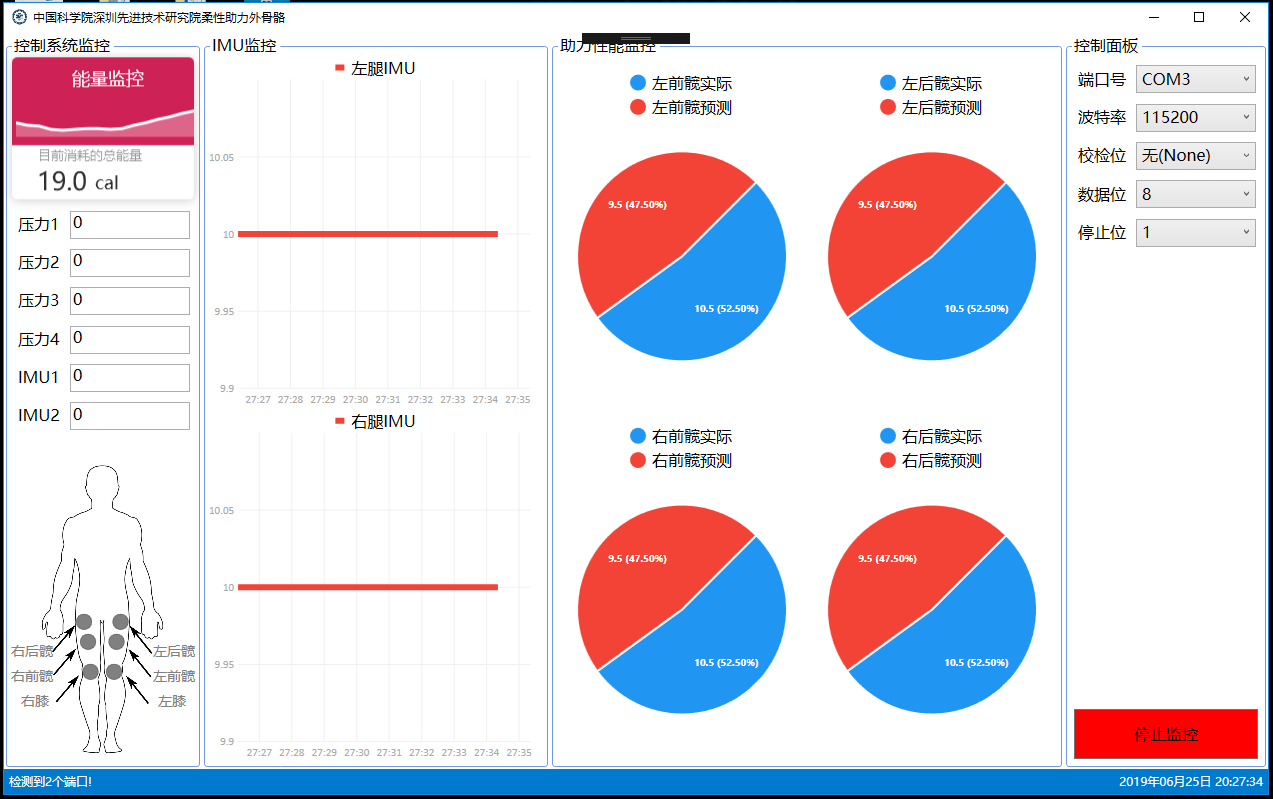
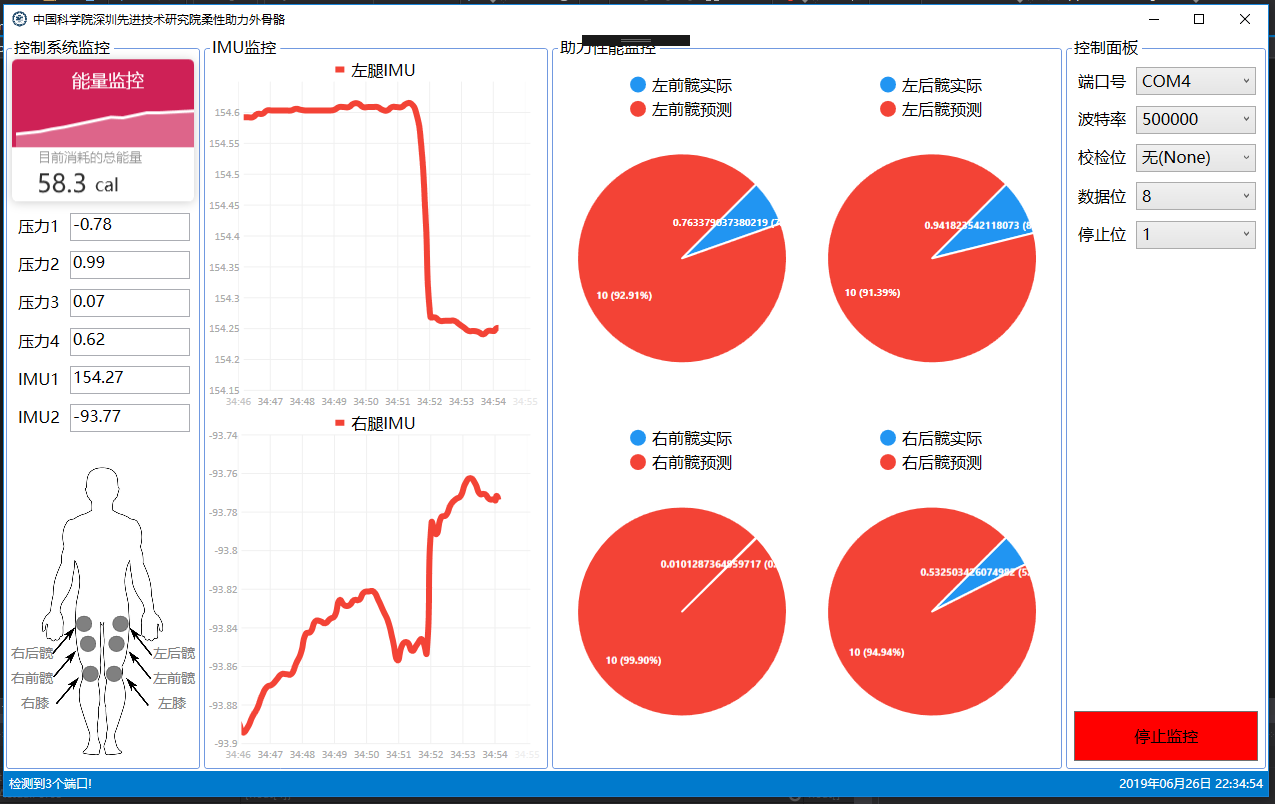
接受下位机数据测试通过
那就还差指示灯逻辑以及能量监控算法了

diff --git a/FlexibleExoskeleton/FlexibleExoskeleton/MainWindow.xaml b/FlexibleExoskeleton/FlexibleExoskeleton/MainWindow.xaml
@@ -61,6 +61,8 @@
                                         <ComboBoxItem>19200</ComboBoxItem>
                                         <ComboBoxItem>38400</ComboBoxItem>
                                         <ComboBoxItem IsSelected="True">115200</ComboBoxItem>
+                                        <ComboBoxItem>256000</ComboBoxItem>
+                                        <ComboBoxItem>500000</ComboBoxItem>
                                     </ComboBox>
                                 </Grid>
                                 <!--波特率下拉选项框结束-->

diff --git a/FlexibleExoskeleton/FlexibleExoskeleton/MainWindow.xaml.cs b/FlexibleExoskeleton/FlexibleExoskeleton/MainWindow.xaml.cs
@@ -102,14 +102,14 @@ namespace FlexibleExoskeleton
         public void ShowDataTimer(object sender, EventArgs e)//电机状态，压力，倾角，角度传感器状态的文本输出
         {
             //4个压力传感器的文本框输出
-            //Pressure1_Textbox.Text = ports.pressures[0].ToString("F");
-            //Pressure2_Textbox.Text = ports.pressures[1].ToString("F");
-            //Pressure3_Textbox.Text = ports.pressures[2].ToString("F");
-            //Pressure4_Textbox.Text = ports.pressures[3].ToString("F");
+            Pressure1_Textbox.Text = ports.ActualForce[0].ToString("F");
+            Pressure2_Textbox.Text = ports.ActualForce[1].ToString("F");
+            Pressure3_Textbox.Text = ports.ActualForce[2].ToString("F");
+            Pressure4_Textbox.Text = ports.ActualForce[3].ToString("F");
 
             //2个IMU的文本框输出
-            //IMU1_Textbox.Text = ports.imus[0].ToString("F");
-            //IMU2_Textbox.Text = ports.imus[1].ToString("F");
+            IMU1_Textbox.Text = ports.imus[0].ToString("F");
+            IMU2_Textbox.Text = ports.imus[1].ToString("F");
 
             // LED显示
             if (ports.led == 1) // 对左膝助力

diff --git a/FlexibleExoskeleton/FlexibleExoskeleton/Ports.cs b/FlexibleExoskeleton/FlexibleExoskeleton/Ports.cs
@@ -114,9 +114,9 @@ namespace FlexibleExoskeleton
                         for (int i = 0; i < 11; i++) // 似乎BitConverter读取数据的高低位顺序与数组相反，所以这里需要调转顺序
                         {
                             temp[i * 4] = bytes[i * 4 + 7];
-                            temp[i * 4 + 1] = bytes[i * 4 + 5];
-                            temp[i * 4 + 2] = bytes[i * 4 + 3];
-                            temp[i * 4 + 3] = bytes[i * 4 + 1];
+                            temp[i * 4 + 1] = bytes[i * 4 + 6];
+                            temp[i * 4 + 2] = bytes[i * 4 + 5];
+                            temp[i * 4 + 3] = bytes[i * 4 + 4];
                         }
 
                         for (int i = 0; i < 4; i++)
@@ -125,7 +125,7 @@ namespace FlexibleExoskeleton
                             IdealForce[i] = BitConverter.ToSingle(temp, i * 4 + 16);
                         }
 
-                        for (int i = 0; i < 4; i++)
+                        for (int i = 0; i < 2; i++)
                         {
                             imus[i] = BitConverter.ToSingle(temp, i * 4 + 32);
                         }
